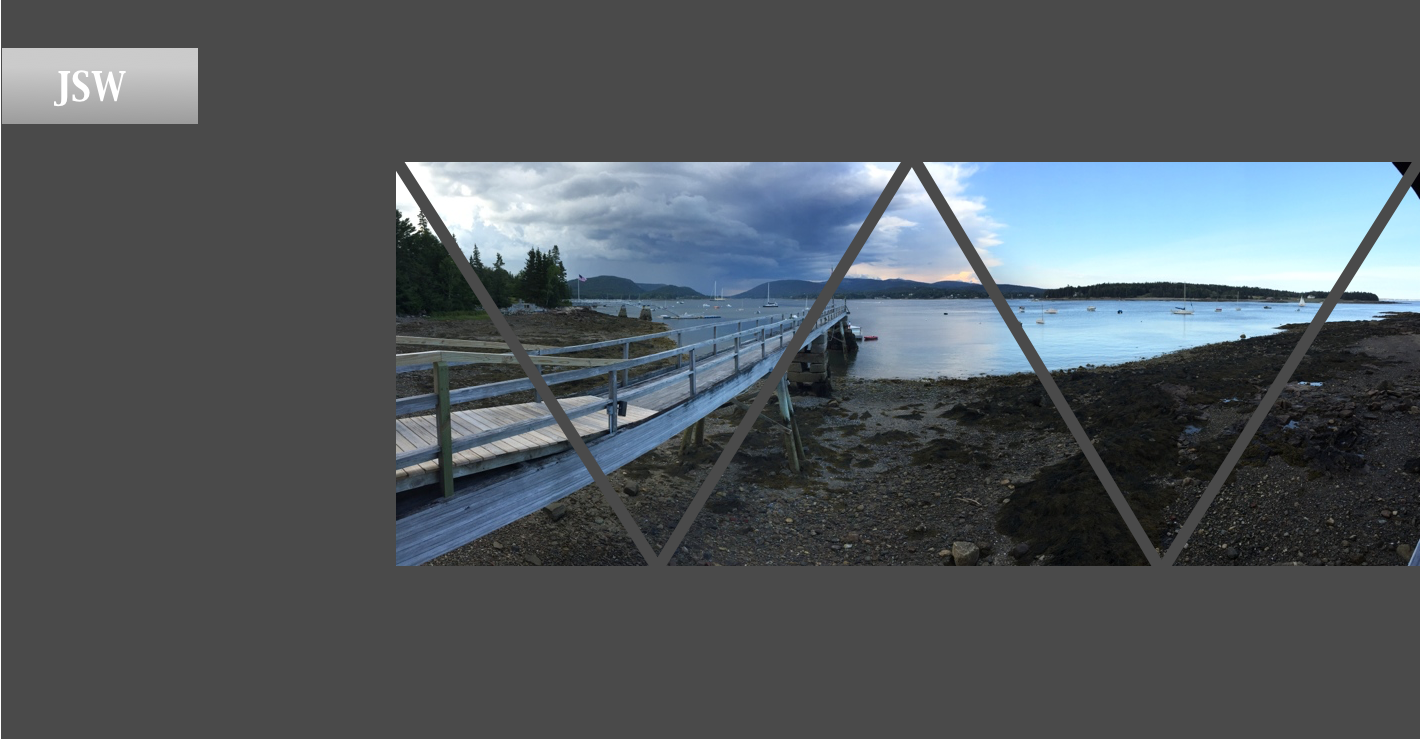
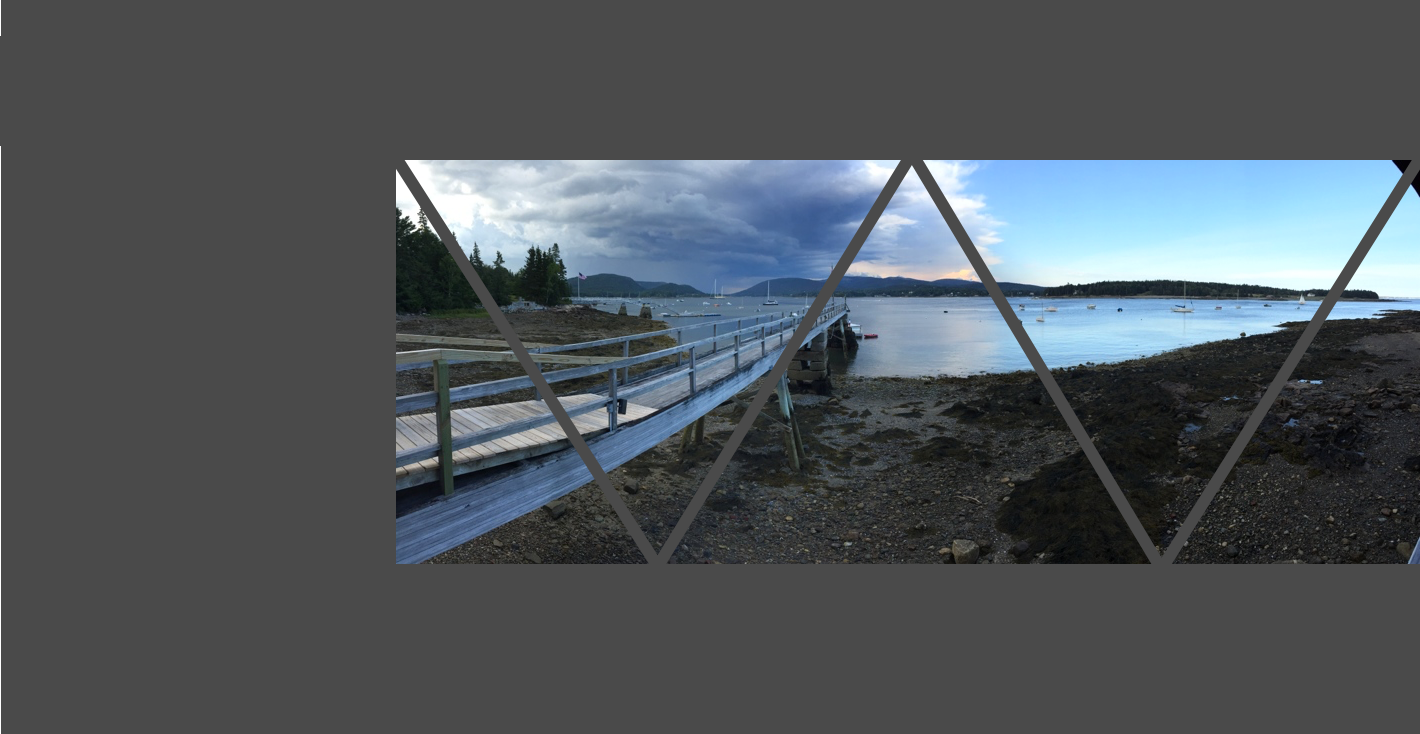
adjusting for mobile screens

diff --git a/css/portfolio_style.css b/css/portfolio_style.css
@@ -6,24 +6,24 @@
 	font-weight: normal;
 	src: URL("../fonts/colors_of_autumn.ttf");
 }
-nav{
-    -moz-animation-name: dropNav;
+nav ul{
+    -moz-animation-name: slideNav;
     -moz-animation-iteration-count: 1;
     -moz-animation-timing-function: ease-in;
     -moz-animation-duration: 1.5s;
 
-    -webkit-animation-name: dropNav;
+    -webkit-animation-name: slideNav;
     -webkit-animation-iteration-count: 1;
     -webkit-animation-timing-function: ease-in;
     -webkit-animation-duration: 1.5s;
 
-    animation-name: dropNav;
+    animation-name: slideNav;
     animation-iteration-count: 1;
     animation-timing-function: ease-in;
     animation-duration: 1.5s;
 }
 
-@-moz-keyframes dropNav {
+@-moz-keyframes slideNav {
     0% {
         -moz-transform: translatex(320px);
     }
@@ -31,7 +31,7 @@ nav{
         -moz-transform: translatex(0);
     }
 }
-@-webkit-keyframes dropNav {
+@-webkit-keyframes slideNav {
     0% {
         -webkit-transform: translatex(320px);
     }
@@ -39,13 +39,18 @@ nav{
         -webkit-transform: translatex(0);
     }
 }
-@keyframes dropNav {
+@keyframes slideNav {
     0% {
         transform: translatex(320px);
     }
     100% {
         transform: translatex(0);
     }
+}
+nav img{
+	height:65px;
+	float:left;
+	margin-left: 7%;
 }
 
 nav ul{

diff --git a/css/about.css b/css/about.css
@@ -5,14 +5,60 @@
 	font-weight: normal;
 	src: URL("../fonts/colors_of_autumn.ttf");
 }
+nav ul{
+    -moz-animation-name: slideNav;
+    -moz-animation-iteration-count: 1;
+    -moz-animation-timing-function: ease-in;
+    -moz-animation-duration: 1.5s;
+
+    -webkit-animation-name: slideNav;
+    -webkit-animation-iteration-count: 1;
+    -webkit-animation-timing-function: ease-in;
+    -webkit-animation-duration: 1.5s;
+
+    animation-name: slideNav;
+    animation-iteration-count: 1;
+    animation-timing-function: ease-in;
+    animation-duration: 1.5s;
+}
+
+@-moz-keyframes slideNav {
+    0% {
+        -moz-transform: translatex(320px);
+    }
+    100% {
+        -moz-transform: translatex(0);
+    }
+}
+@-webkit-keyframes slideNav {
+    0% {
+        -webkit-transform: translatex(320px);
+    }
+    100% {
+        -webkit-transform: translatex(0);
+    }
+}
+@keyframes slideNav {
+    0% {
+        transform: translatex(320px);
+    }
+    100% {
+        transform: translatex(0);
+    }
+}
+nav img{
+	height:65px;
+	float:left;
+	margin-left: 7%;
+}
 
 nav{
 	text-align: right;
 	height: 45px;
 	width:100%;
 	background-color: white;
-	padding-top: 5px;
-	padding-bottom: 15px;
+	padding-top: 3vh;
+	padding-bottom: 3.5vh;
 	
 }
 

diff --git a/About.html b/About.html
@@ -6,6 +6,7 @@
 	</head>
 	<body>
 		<nav>
+			<a href="./index.html"><img src="./images/logo.jpg"></a>
 			<ul>
 				<li class= "current"><a href="about.html">ABOUT</a></li>
 				<li class="middle"><a href="./SW2.html">WORK</a></li>

diff --git a/index.html b/index.html
@@ -7,6 +7,7 @@
 	</head>
 	<body>
 		<nav>
+			<a href="./index.html"><img src="./images/logo.jpg"></a>
 			<ul>
 				<li><a href="./About.html">ABOUT</a></li>
 				<li class="middle"><a href="./SW2.html">WORK</a></li>
